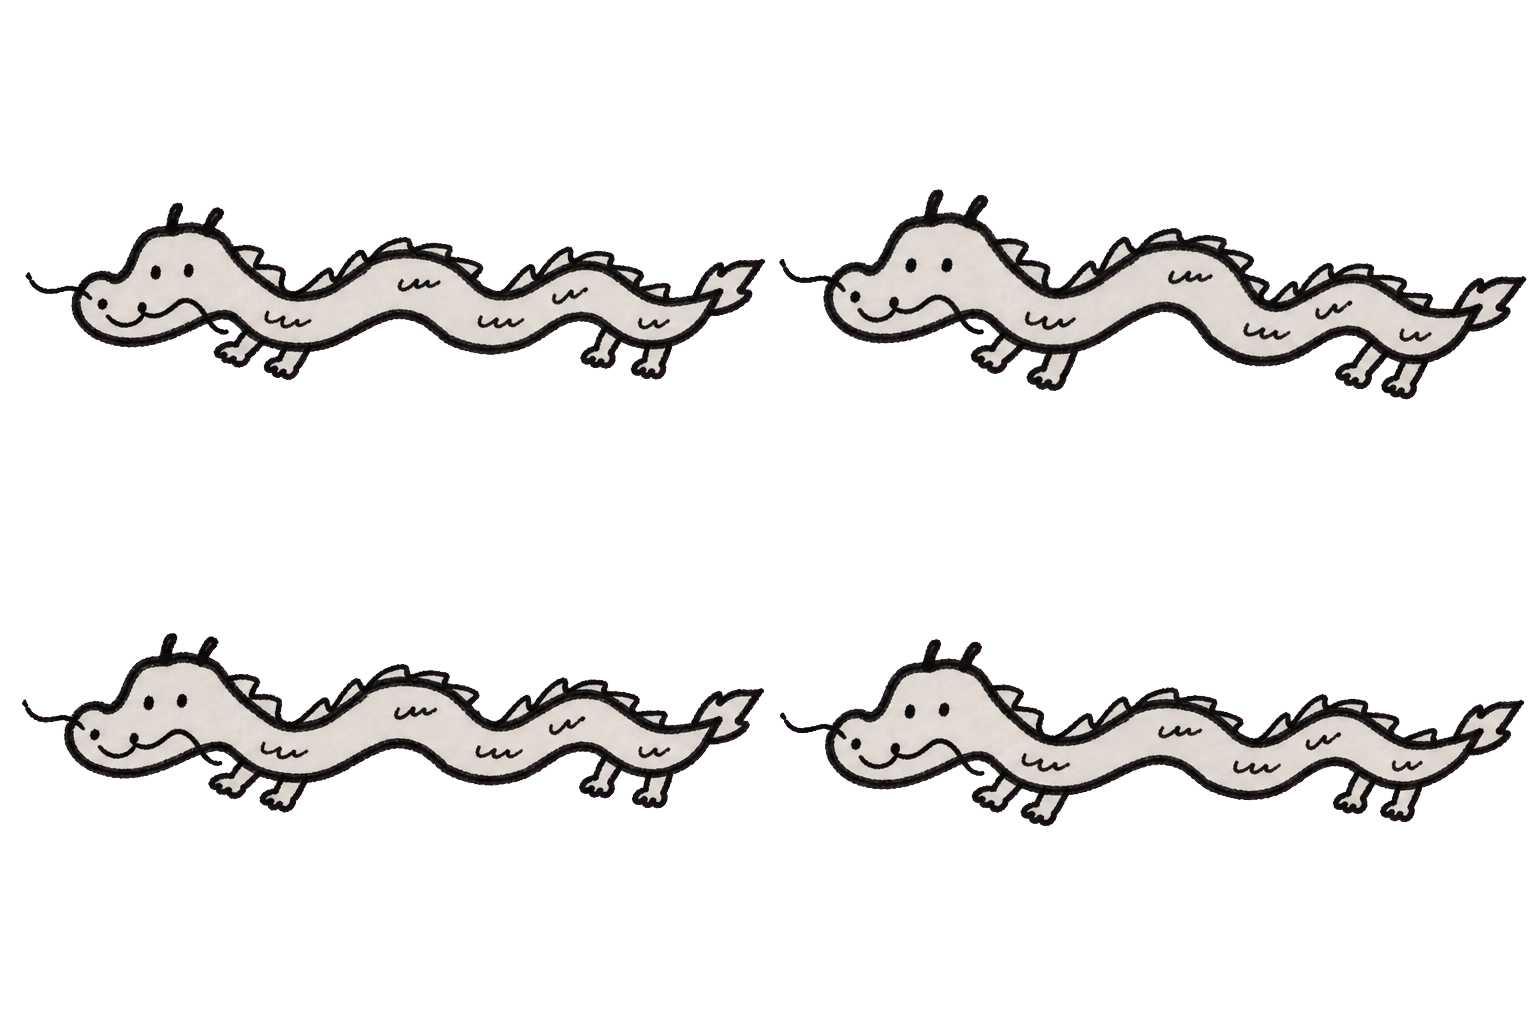
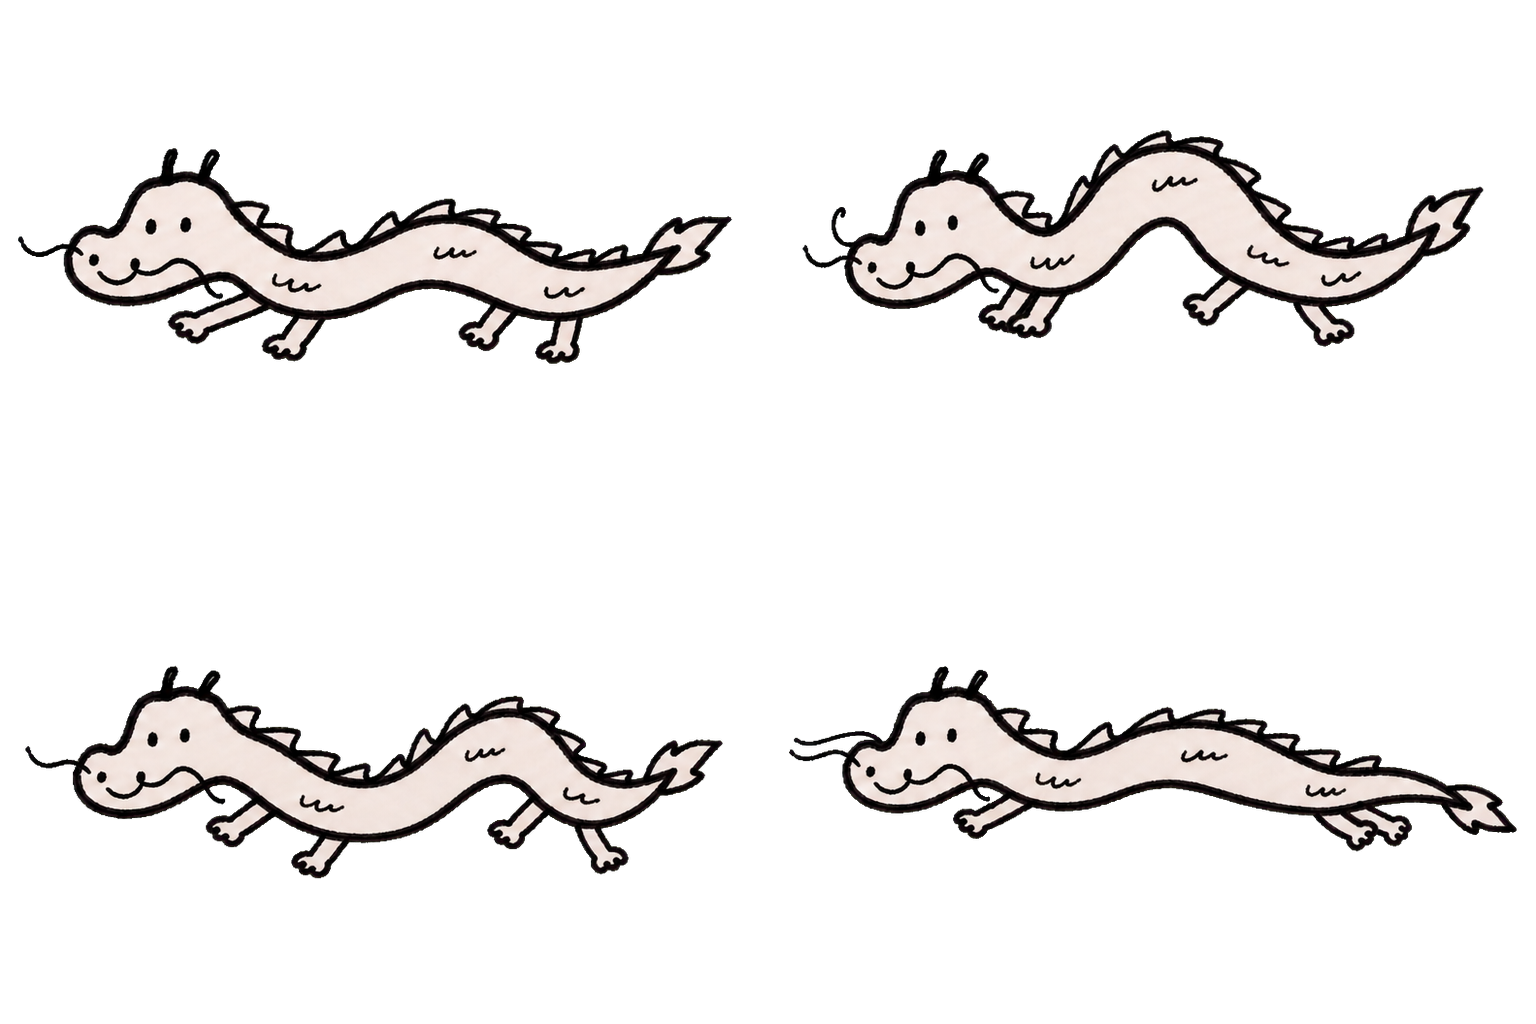
feat(obstacles): 관절형 용 4프레임 적용

Changed region(s): [[0.0, 0.125, 1.0, 0.4062], [0.0, 0.625, 1.0, 0.875]]

diff --git a/Assets/Editor/Tests/MovingObstacleTests.cs b/Assets/Editor/Tests/MovingObstacleTests.cs
@@ -1,5 +1,6 @@
 using System.Collections;
 using System.Collections.Generic;
+using System.IO;
 using System.Reflection;
 using NUnit.Framework;
 using UnityEngine;
@@ -114,6 +115,100 @@ public sealed class MovingObstacleTests
                 repairedFrames[i].name);
         }
         Assert.AreSame(repairedFrames[0], GetField(spawner, "dragonSprite"));
+    }
+
+    [Test]
+    public void DragonSheetUsesDistinctStableSilhouettesWithoutCellEdgeBleed()
+    {
+        const string assetPath =
+            "Assets/Resources/MukJump/Obstacles/child_ink_dragon_4frame.png";
+        string projectRoot = Path.GetDirectoryName(Application.dataPath);
+        Assert.IsNotNull(projectRoot);
+        string fullPath = Path.Combine(projectRoot, assetPath);
+        Assert.IsTrue(File.Exists(fullPath));
+
+        var texture = Track(new Texture2D(2, 2, TextureFormat.RGBA32, false));
+        Assert.IsTrue(ImageConversion.LoadImage(
+            texture, File.ReadAllBytes(fullPath), false));
+        Assert.AreEqual(1536, texture.width);
+        Assert.AreEqual(1024, texture.height);
+
+        const int columns = 2;
+        const int rows = 2;
+        const int frameWidth = 768;
+        const int frameHeight = 512;
+        const byte visibleAlpha = 128;
+        var pixels = texture.GetPixels32();
+        var masks = new bool[columns * rows][];
+        var centroidX = new float[masks.Length];
+        var centroidY = new float[masks.Length];
+
+        for (int frameIndex = 0; frameIndex < masks.Length; frameIndex++)
+        {
+            int column = frameIndex % columns;
+            int row = frameIndex / columns;
+            int originX = column * frameWidth;
+            int originY = (rows - 1 - row) * frameHeight;
+            int minX = frameWidth;
+            int minY = frameHeight;
+            int maxX = -1;
+            int maxY = -1;
+            int visibleCount = 0;
+            long sumX = 0;
+            long sumY = 0;
+            var mask = new bool[frameWidth * frameHeight];
+            masks[frameIndex] = mask;
+
+            for (int y = 0; y < frameHeight; y++)
+            {
+                for (int x = 0; x < frameWidth; x++)
+                {
+                    int sourceIndex = originX + x +
+                                      (originY + y) * texture.width;
+                    bool visible = pixels[sourceIndex].a >= visibleAlpha;
+                    mask[x + y * frameWidth] = visible;
+                    if (!visible) continue;
+
+                    minX = Mathf.Min(minX, x);
+                    minY = Mathf.Min(minY, y);
+                    maxX = Mathf.Max(maxX, x);
+                    maxY = Mathf.Max(maxY, y);
+                    visibleCount++;
+                    sumX += x;
+                    sumY += y;
+                }
+            }
+
+            Assert.Greater(visibleCount, 45000,
+                $"용 프레임 {frameIndex}의 보이는 실루엣이 비정상적으로 작습니다.");
+            Assert.That(minX, Is.GreaterThanOrEqualTo(8));
+            Assert.That(minY, Is.GreaterThanOrEqualTo(8));
+            Assert.That(maxX, Is.LessThan(frameWidth - 8));
+            Assert.That(maxY, Is.LessThan(frameHeight - 8));
+            centroidX[frameIndex] = sumX / (float)visibleCount;
+            centroidY[frameIndex] = sumY / (float)visibleCount;
+        }
+
+        Assert.Less(Max(centroidX) - Min(centroidX), 20f,
+            "프레임 중심이 좌우로 튀면 몸 관절보다 전체 이동이 먼저 보입니다.");
+        Assert.Less(Max(centroidY) - Min(centroidY), 32f,
+            "프레임 중심이 위아래로 튀면 몸 관절보다 전체 이동이 먼저 보입니다.");
+
+        for (int frameIndex = 0; frameIndex < masks.Length; frameIndex++)
+        {
+            var current = masks[frameIndex];
+            var next = masks[(frameIndex + 1) % masks.Length];
+            int union = 0;
+            int changed = 0;
+            for (int i = 0; i < current.Length; i++)
+            {
+                if (current[i] || next[i]) union++;
+                if (current[i] != next[i]) changed++;
+            }
+
+            Assert.Greater(changed / (float)union, 0.3f,
+                $"용 프레임 {frameIndex}은 다음 프레임과 실루엣 변화가 부족합니다.");
+        }
     }
 
     [Test]
@@ -236,6 +331,22 @@ public sealed class MovingObstacleTests
             frames[i].name = $"child_ink_dragon_frame_{i:00}";
         }
         return frames;
+    }
+
+    static float Min(float[] values)
+    {
+        float result = float.PositiveInfinity;
+        for (int i = 0; i < values.Length; i++)
+            result = Mathf.Min(result, values[i]);
+        return result;
+    }
+
+    static float Max(float[] values)
+    {
+        float result = float.NegativeInfinity;
+        for (int i = 0; i < values.Length; i++)
+            result = Mathf.Max(result, values[i]);
+        return result;
     }
 
     T Track<T>(T value) where T : Object
